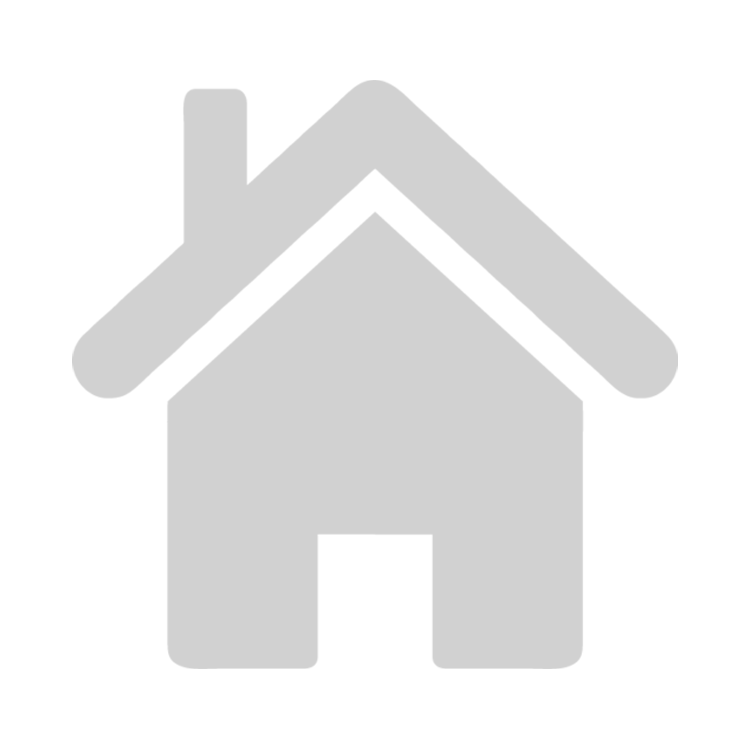
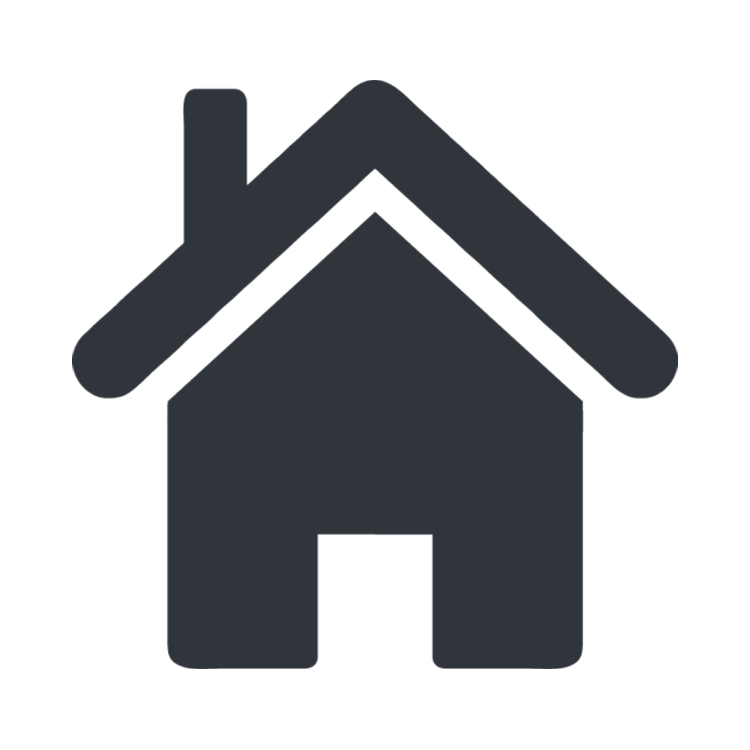
changed theme

diff --git a/new-frontend/src/components/MainScreen/MainLayout.js b/new-frontend/src/components/MainScreen/MainLayout.js
@@ -2,6 +2,8 @@ import React from "react";
 import SideBar from "./SideBar";
 
 export default function MainLayout() {
+  const remote = require('electron').remote;
+  
   const btnClick = (name) => {
     console.log("clicked", name);
   };
@@ -10,13 +12,15 @@ export default function MainLayout() {
     display: "flex",
     margin: 0,
     padding: 0,
-    backgroundColor: "#090e18",
+    backgroundColor: "#ececec",
   };
 
   const sideScreen = {
-    color: "#afb0b2",
+    // color: "#afb0b2",
+    backgroundColor: "#ececec",
     flex: 1,
-    height: "98vh",
+    height: "100vh",
+    opacity: 1,
   };
 
   const cameraScreen = {
@@ -28,15 +32,37 @@ export default function MainLayout() {
     overflow: "hidden",
   };
 
+  const closeScreen = () => {
+    var window = remote.getCurrentWindow();
+    window.close(); 
+  }
+
+  const minimizeScreen = () => {
+    var window = remote.getCurrentWindow();
+    window.minimize(); 
+  }
+
+  const menuButtonStyle = {
+    color: "#ececec",
+    backgroundColor: "transparent",
+    position: "relative",
+    top: "-45vh",
+    right: "4vh",
+    margin: "1.5vh",
+    border: "none",
+    cursor: "pointer",
+    fontSize: 16,
+    fontFamily: "Oxygen",
+  }
+
   return (
     <div style={flexContainer}>
       <div style={sideScreen}>
         <SideBar btnClick={btnClick} />
       </div>
-      <div style={cameraScreen}>
-        {/* <VideoModal/> */}
-        {/* <CameraScreen /> */}
-      </div>
+      <div style={cameraScreen}></div>
+        <button style={menuButtonStyle} onClick={minimizeScreen}>—</button>
+        <button style={menuButtonStyle} onClick={closeScreen}>X</button>
     </div>
   );
 }

diff --git a/new-frontend/src/components/MainScreen/Options.js b/new-frontend/src/components/MainScreen/Options.js
@@ -3,14 +3,10 @@ import React from "react"
 export default function Options({name, btnClick, imagePic}) {
   const anOptionStyle = {
     padding: "2.5vh",
-   // backgroundColor: "red",
-    //margin: "10px 0 ",
-   // flex: 1,
-
   }
 
   const btnStyle = {
-    color: "white",
+    color: "#111111",
     backgroundColor: "transparent",
     border: "none",
     cursor: "pointer",
@@ -20,11 +16,15 @@ export default function Options({name, btnClick, imagePic}) {
 
   const imageStyle = {
     padding: "0 10px 0 0",
+    color: "#2f353b"
   }
 
   const tagNameStyle = {
-    marginTop: "10px",
-    float: "right"
+    marginTop: "7px",
+    float: "right",
+    fontFamily: "Oxygen",
+    fontWeight: "normal",
+    fontSize: 14,
   }
 
   function toggleChange() {
@@ -32,7 +32,6 @@ export default function Options({name, btnClick, imagePic}) {
   }
   return (
     <div style={anOptionStyle}>
-
       <button style={btnStyle} onClick={toggleChange}>
         <img src={imagePic} alt={name} width="30px" height="30px" style={imageStyle}/>
         <div style={tagNameStyle}>

diff --git a/new-frontend/src/components/MainScreen/SideBar.js b/new-frontend/src/components/MainScreen/SideBar.js
@@ -8,9 +8,12 @@ import logo from "../../assets/logo.png";
 import cameraPic from "../../assets/webcam.png";
 
 export default function SideBar({ btnClick }) {
+
+ 
   const logoStyle = {
     height: "10vh",
-    paddingLeft: "1vw",
+    position: "relative",
+    top: "-3vh"
   };
 
   const optionWrapper = {
@@ -18,13 +21,13 @@ export default function SideBar({ btnClick }) {
     height: "60vh",
     display: "flex",
     flexDirection: "column"
-
   };
 
   const minorOptions  = {
     flex: 2,
     display: "flex",
-    flexDirection: "column"
+    flexDirection: "column",
+    marginTop: "5vh",
   }
 
   const optionStyle = {
@@ -33,13 +36,13 @@ export default function SideBar({ btnClick }) {
 
   const cameraOptionStyle = {
     flex: 1,
-    marginRight: "3vw"
+    marginRight: "3vw",
   };
 
   return (
     <div>
       <div style={logoStyle}>
-        <img src={logo} alt="logo" width="40%" height="auto" />
+        <img src={logo} alt="logo" width="50%" height="auto" />
       </div>
       <div style={optionWrapper}>
         <div style={minorOptions}>

diff --git a/new-frontend/src/components/MainScreen/CameraOption.js b/new-frontend/src/components/MainScreen/CameraOption.js
@@ -35,7 +35,7 @@ export default class CameraOption extends Component {
 
   render() {
     const btnContainer = {
-      padding: "20vh 0 0vh 2vh"
+      padding: "50vh 0vh 0vh 2vh"
     }
 
     const btnStyle = {
@@ -44,7 +44,6 @@ export default class CameraOption extends Component {
       border: "none",
       cursor: "pointer",
       overflow: "hidden",
-      outline: "none",
       margin: "auto",
       borderRadius: "10px",
       display: "flex",
@@ -71,9 +70,8 @@ export default class CameraOption extends Component {
       width: "640px",
       border: "none",
       position: "absolute",
-      top: "5px",
-      right: "5px",
-      borderRadius: "25px",
+      top: "0px",
+      right: "-1px",
     };
 
     return (

diff --git a/new-frontend/src/index.css b/new-frontend/src/index.css
@@ -1,13 +1,23 @@
+html, 
+body {
+    height: 100%;
+    overflow: hidden;
+}
+
 body {
   margin: 0;
+  transform: scale(0.9);
+  border: 1px solid #ececec;
+  border-radius: 35px;
+  -webkit-app-region: drag;
+  -webkit-font-smoothing: antialiased;
+  -moz-osx-font-smoothing: grayscale;
   font-family: -apple-system, BlinkMacSystemFont, 'Segoe UI', 'Roboto', 'Oxygen',
     'Ubuntu', 'Cantarell', 'Fira Sans', 'Droid Sans', 'Helvetica Neue',
     sans-serif;
-  -webkit-font-smoothing: antialiased;
-  -moz-osx-font-smoothing: grayscale;
 }
 
-code {
-  font-family: source-code-pro, Menlo, Monaco, Consolas, 'Courier New',
-    monospace;
+button {
+  -webkit-app-region: no-drag;
 }
+

diff --git a/new-frontend/src/components/Settings/SettingsLayout.js b/new-frontend/src/components/Settings/SettingsLayout.js
@@ -45,11 +45,11 @@ export default class SettingsLayout extends Component {
       display: "flex",
       margin: 0,
       padding: 0,
-      backgroundColor: "#090e18",
+      backgroundColor: "#ececec",
     };
 
     const sideScreen = {
-      color: "#afb0b2",
+      color: "#ececec",
       flex: 1,
       height: "100vh",
     };
@@ -63,7 +63,7 @@ export default class SettingsLayout extends Component {
 
     const titleStyle = {
       textAlign: "center",
-      color: "white",
+      color: "#111111",
       letterSpacing: "0.3em",
       fontFamily: "Oxygen",
       fontWeight: "bold",

diff --git a/new-frontend/src/components/Settings/SideBar.js b/new-frontend/src/components/Settings/SideBar.js
@@ -7,7 +7,8 @@ import logo from "../../assets/logo.png";
 export default function SideBar({ btnClick }) {
   const logoStyle = {
     height: "10vh",
-    paddingLeft: "1vw",
+    position: "relative",
+    top: "-3vh"
   };
 
   const optionWrapper = {
@@ -18,7 +19,7 @@ export default function SideBar({ btnClick }) {
   return (
     <div>
       <div style={logoStyle}>
-        <img src={logo} alt="logo" width="40%" height="auto" />
+        <img src={logo} alt="logo" width="50%" height="auto" />
       </div>
       <div style={optionWrapper}>
         <div>

diff --git a/new-frontend/electronMain.js b/new-frontend/electronMain.js
@@ -29,9 +29,11 @@ if ( process.defaultApp || /[\\/]electron-prebuilt[\\/]/.test(process.execPath) 
 function createWindow() {
   // Create the browser window.
   mainWindow = new BrowserWindow({
-    width: 860,
-    height: 520,
+    width: 865,
+    height: 480,
     autoHideMenuBar: true,
+    transparent: true, 
+    frame: false,
     resizable: false,
     icon: "./src/assets/icon.png",
     webPreferences: {

diff --git a/new-frontend/src/components/Settings/HandButtons.js b/new-frontend/src/components/Settings/HandButtons.js
@@ -43,7 +43,7 @@ export default class HandButtons extends Component {
     const btnStyle = {
       cursor: "pointer",
       border: this.state.borderClr,
-      backgroundColor: "#234796",
+      backgroundColor: "#081a2d",
       padding: "2vh 3vw",
       outline: "none",
       borderRadius: "10px",

diff --git a/recognition/app.py b/recognition/app.py
@@ -18,7 +18,7 @@ app = Flask(__name__)
 
 
 # Getting openCV ready
-cap = cv2.VideoCapture(0)
+cap = cv2.VideoCapture(1)
 
 # restricting webcam size
 cap.set(cv2.CAP_PROP_FRAME_WIDTH, 640)
@@ -39,7 +39,7 @@ print(wCam, hCam)
 # Number of consecutive frames a gesture has to be detected before it changes
 # Lower the number the faster it changes, but the more jumpy it is
 # Higher the number the slower it changes, but the less jumpy it is
-frames_until_change = 3
+frames_until_change = 10
 prevGestures = [] # gestures calculated in previous frames
 
 # Getting media-pipe ready
